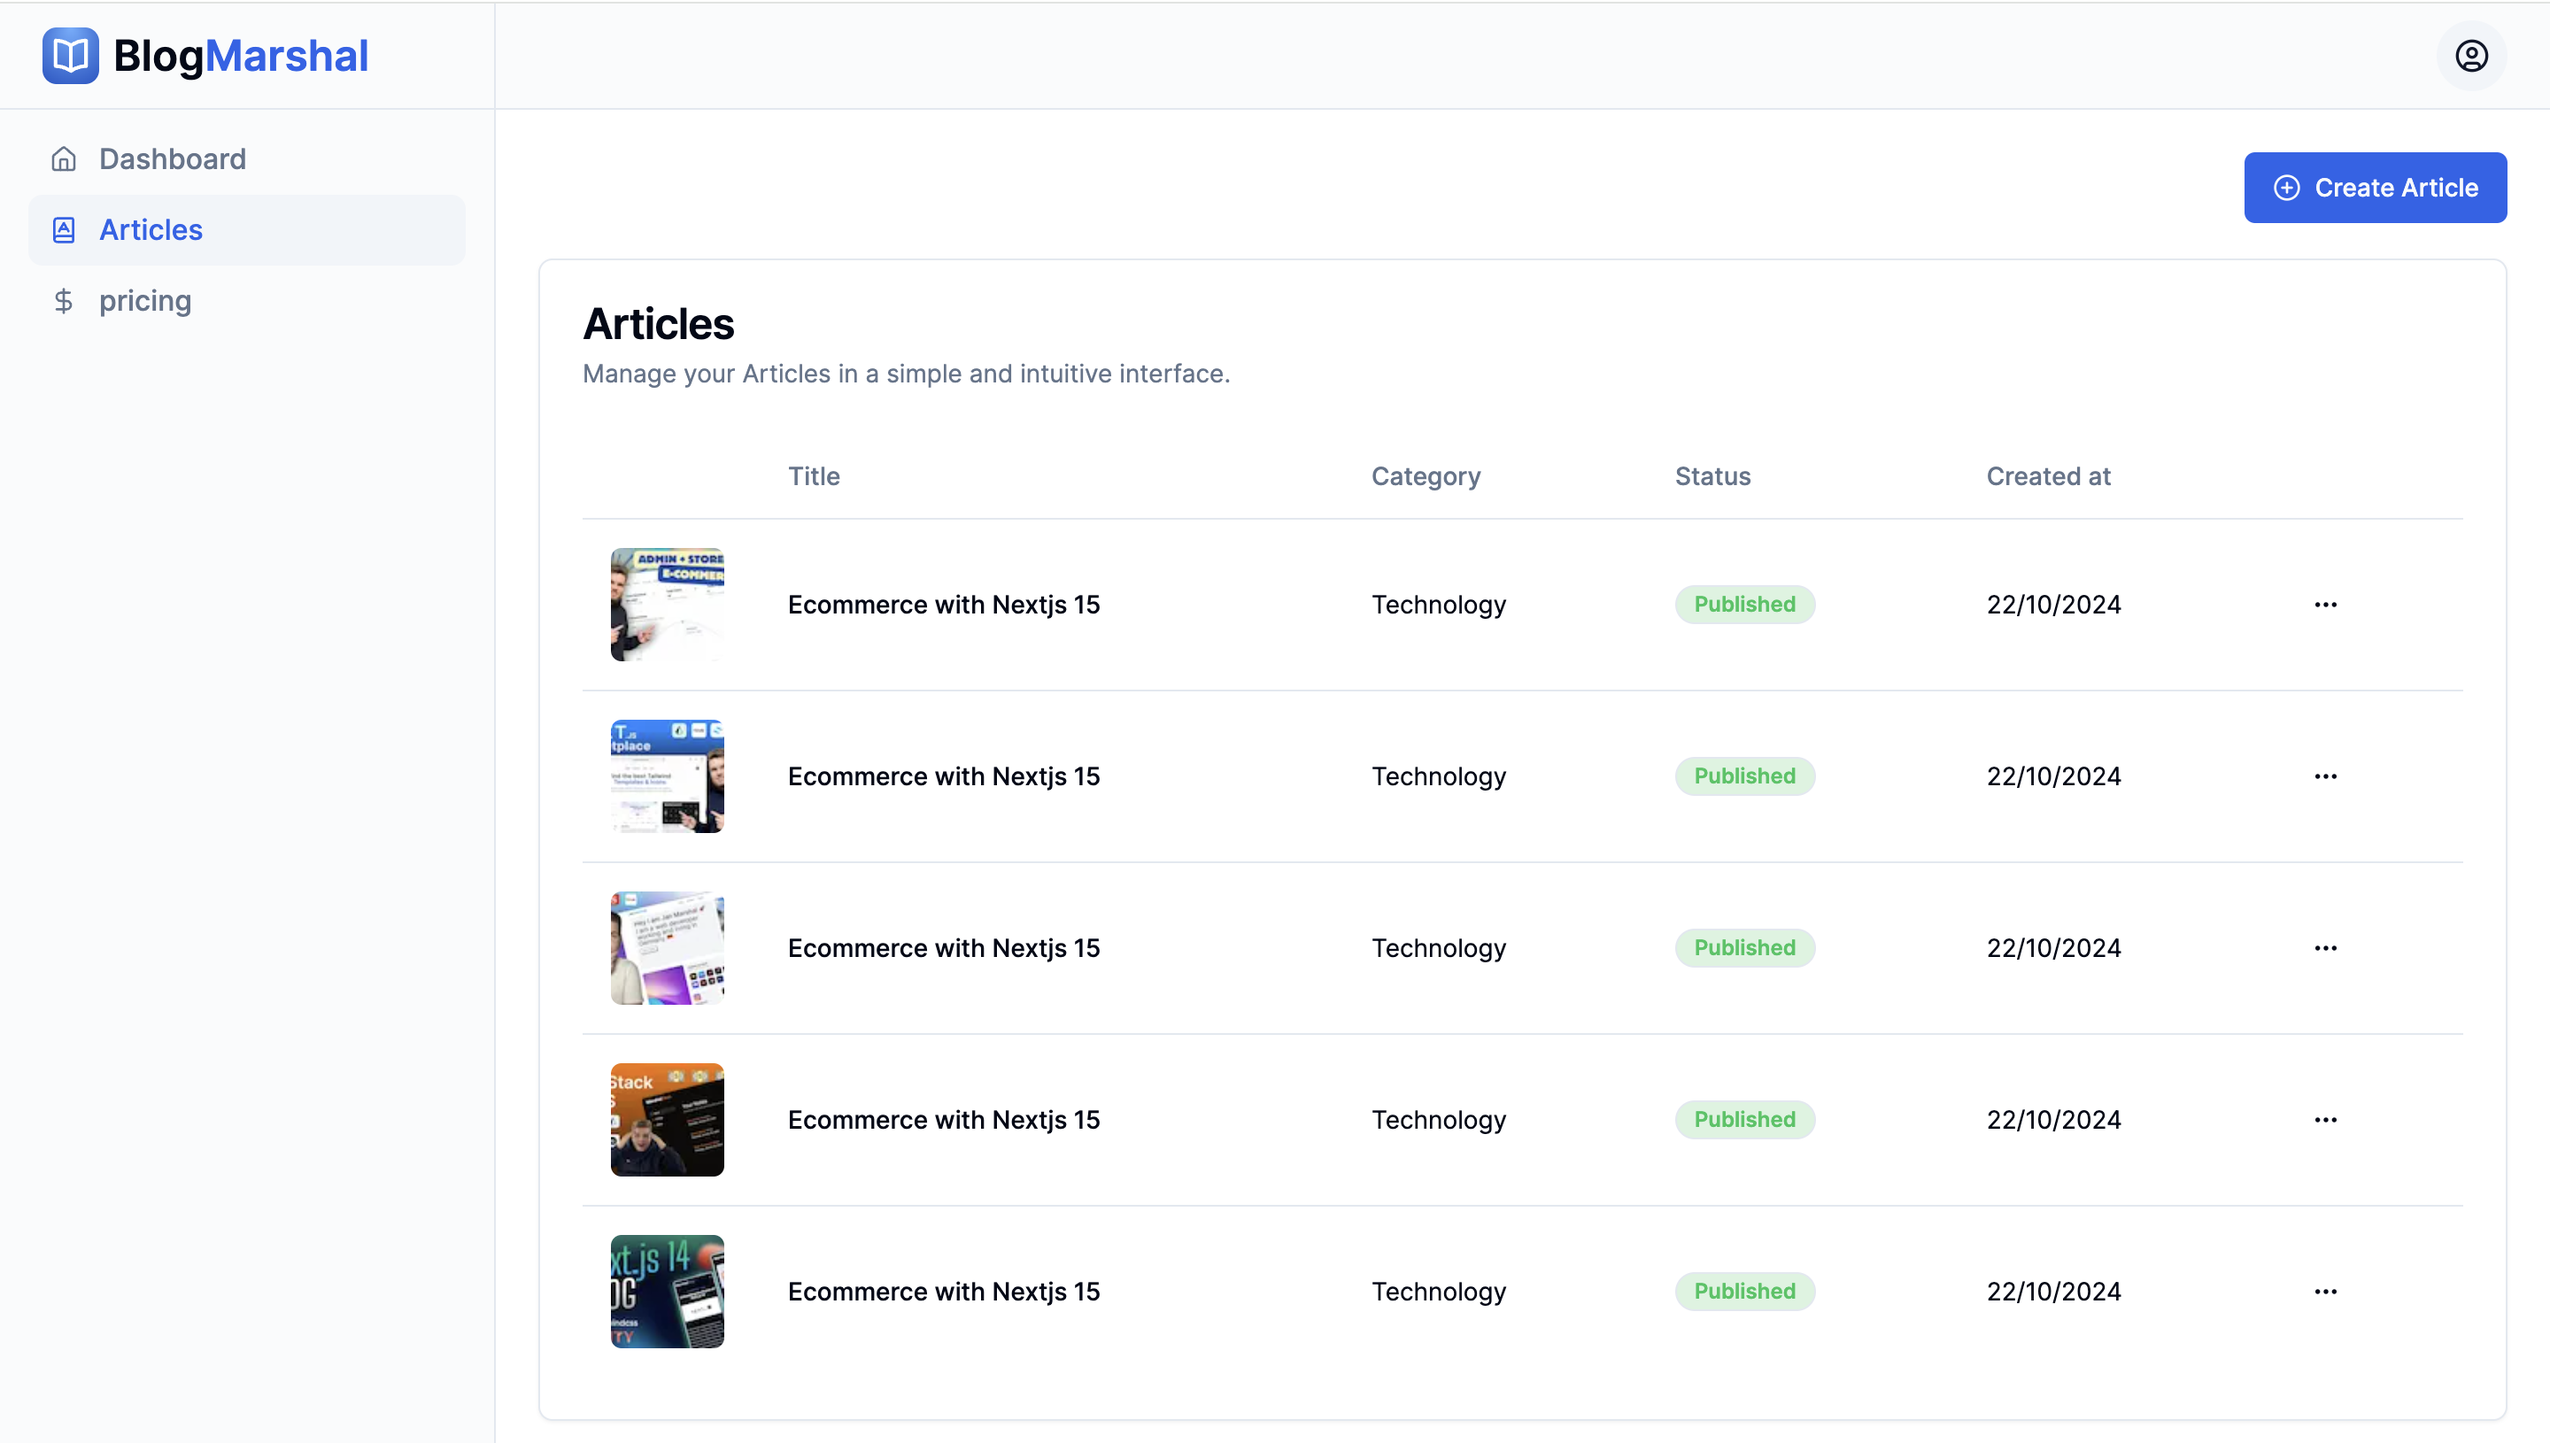
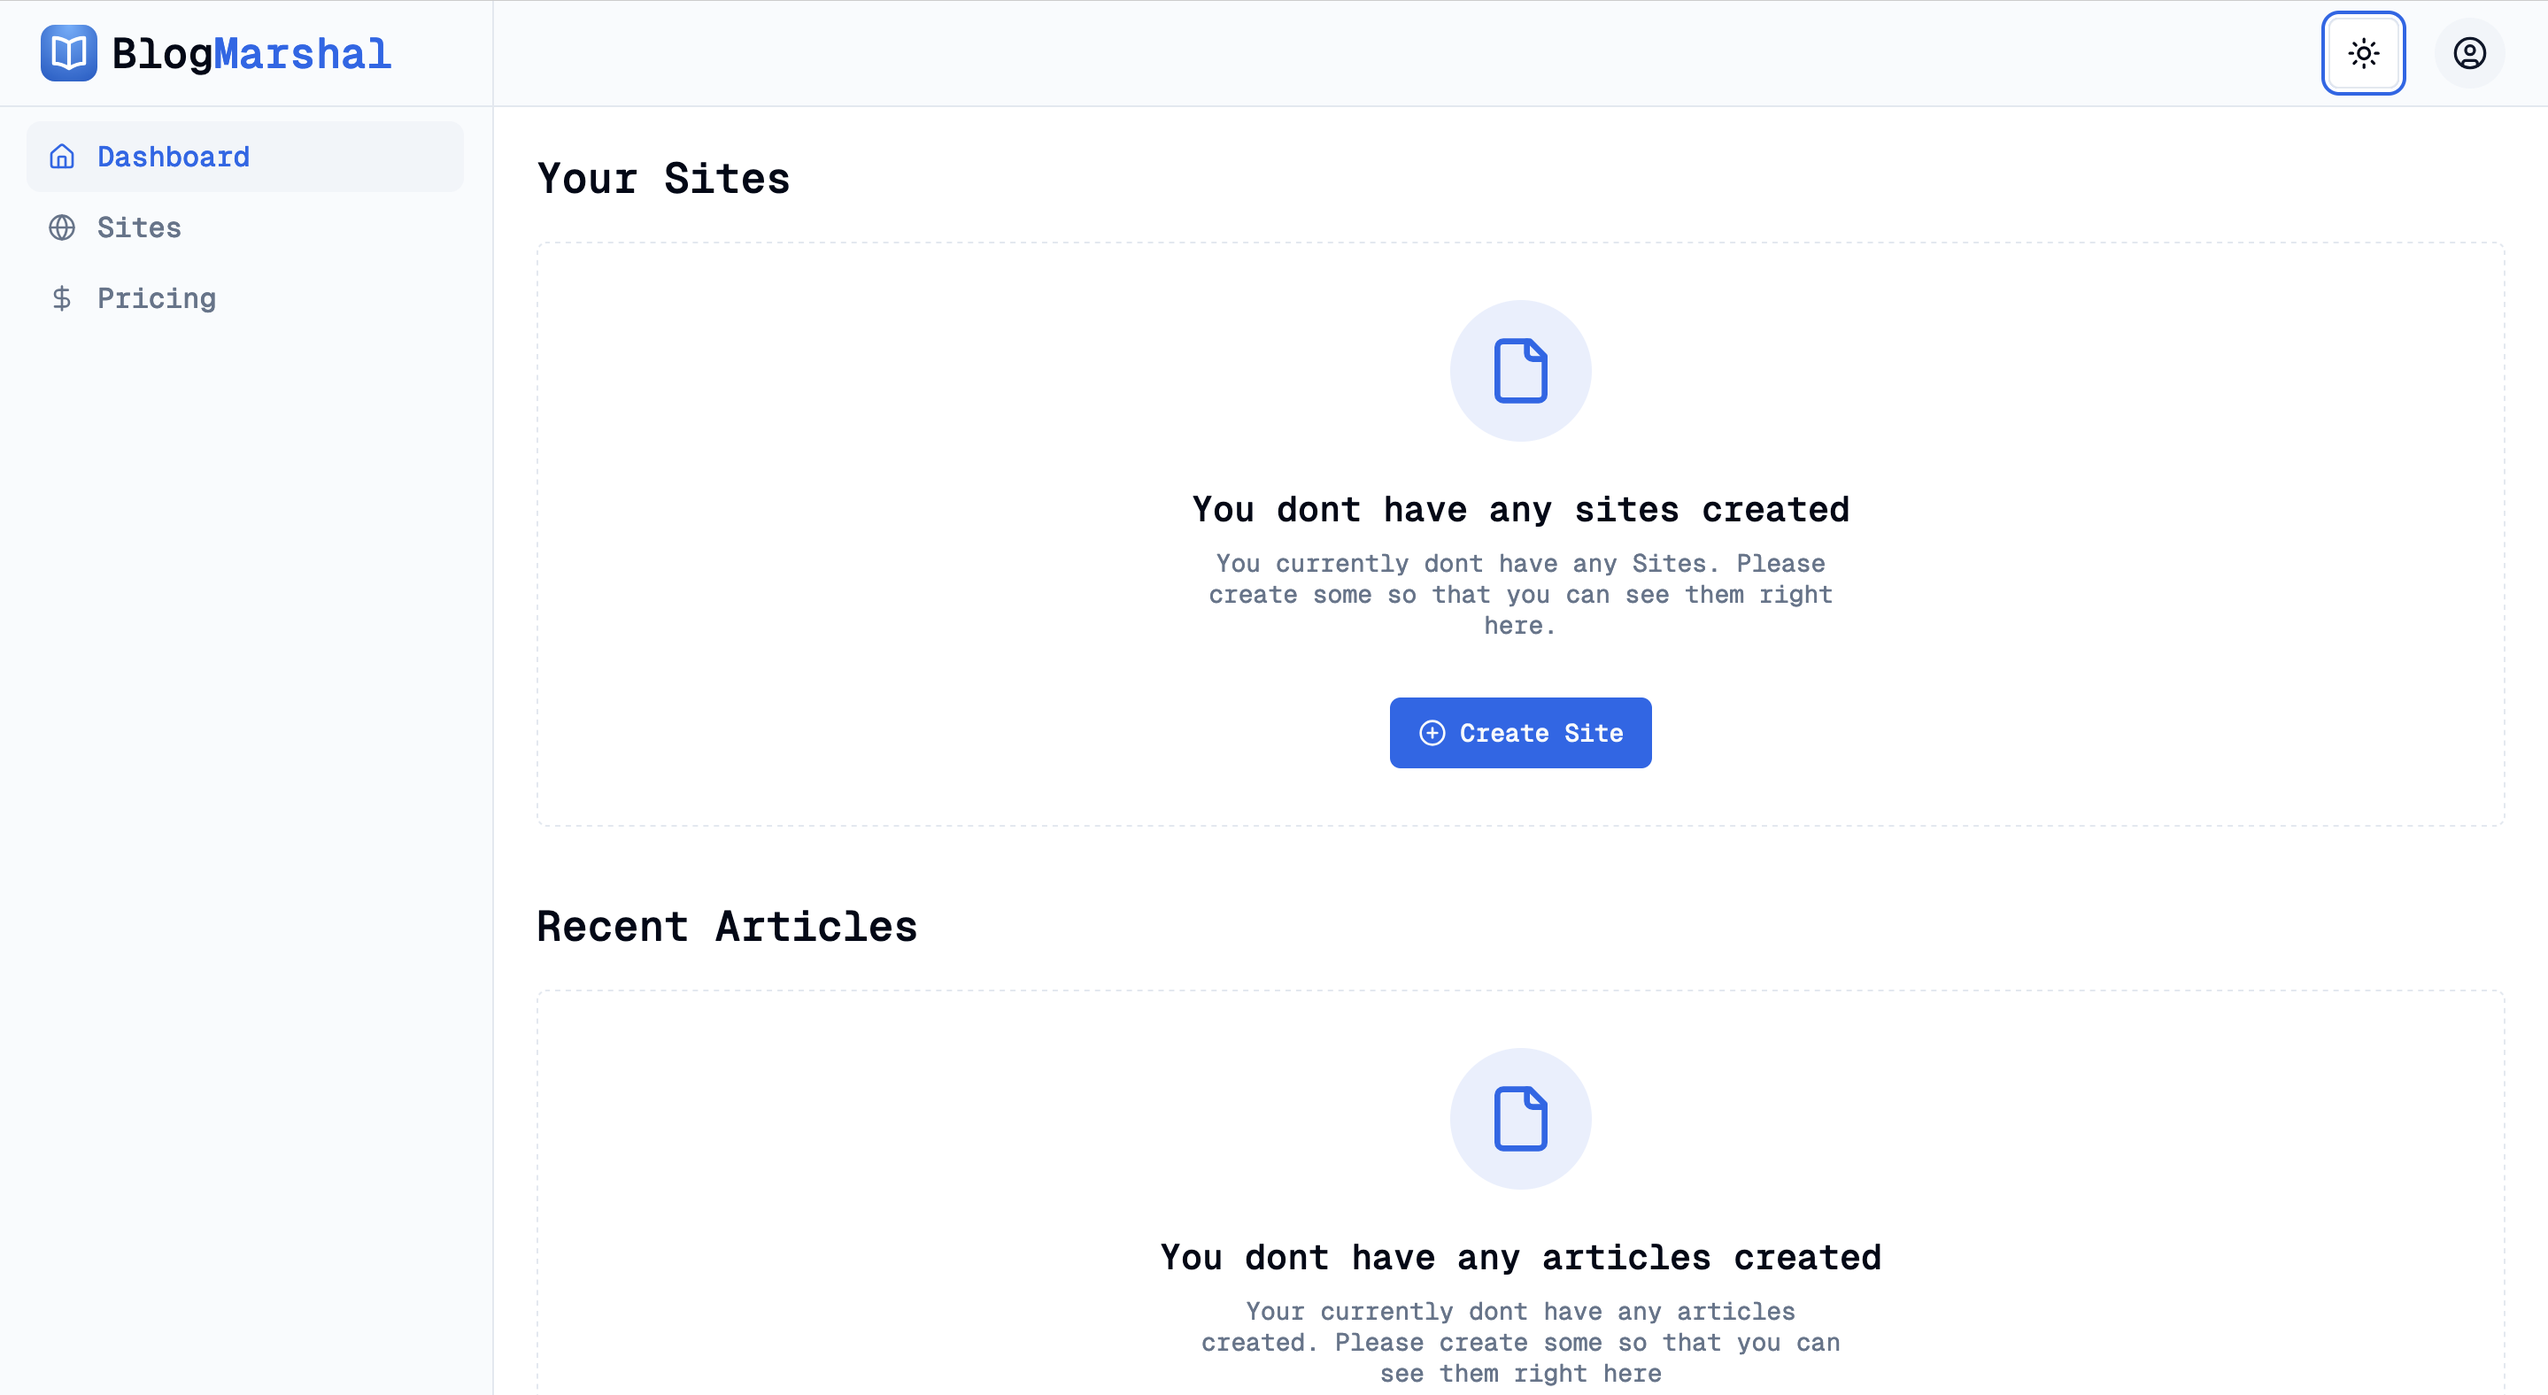
Theme change

diff --git a/app/dashboard/layout.tsx b/app/dashboard/layout.tsx
@@ -42,7 +42,7 @@ export default function DashboardLayout({ children }: { children: ReactNode }) {
               <Image src={Logo} alt="Logo" className="size-8" />
 
               <h3 className="text-2xl">
-                Blog<span className="text-primary">Marshal</span>
+                Pen<span className="text-primary">&Thoughts</span>
               </h3>
             </Link>
           </div>

diff --git a/app/components/frontend/Hero.tsx b/app/components/frontend/Hero.tsx
@@ -18,7 +18,7 @@ export function Hero() {
             <Image src={Logo} className="size-10" alt="Logo" />
 
             <h4 className="text-3xl font-semibold">
-              Blog<span className="text-primary">Marshal</span>
+              Pen<span className="text-primary">&Thoughts</span>
             </h4>
           </Link>
           <div className="md:hidden">
